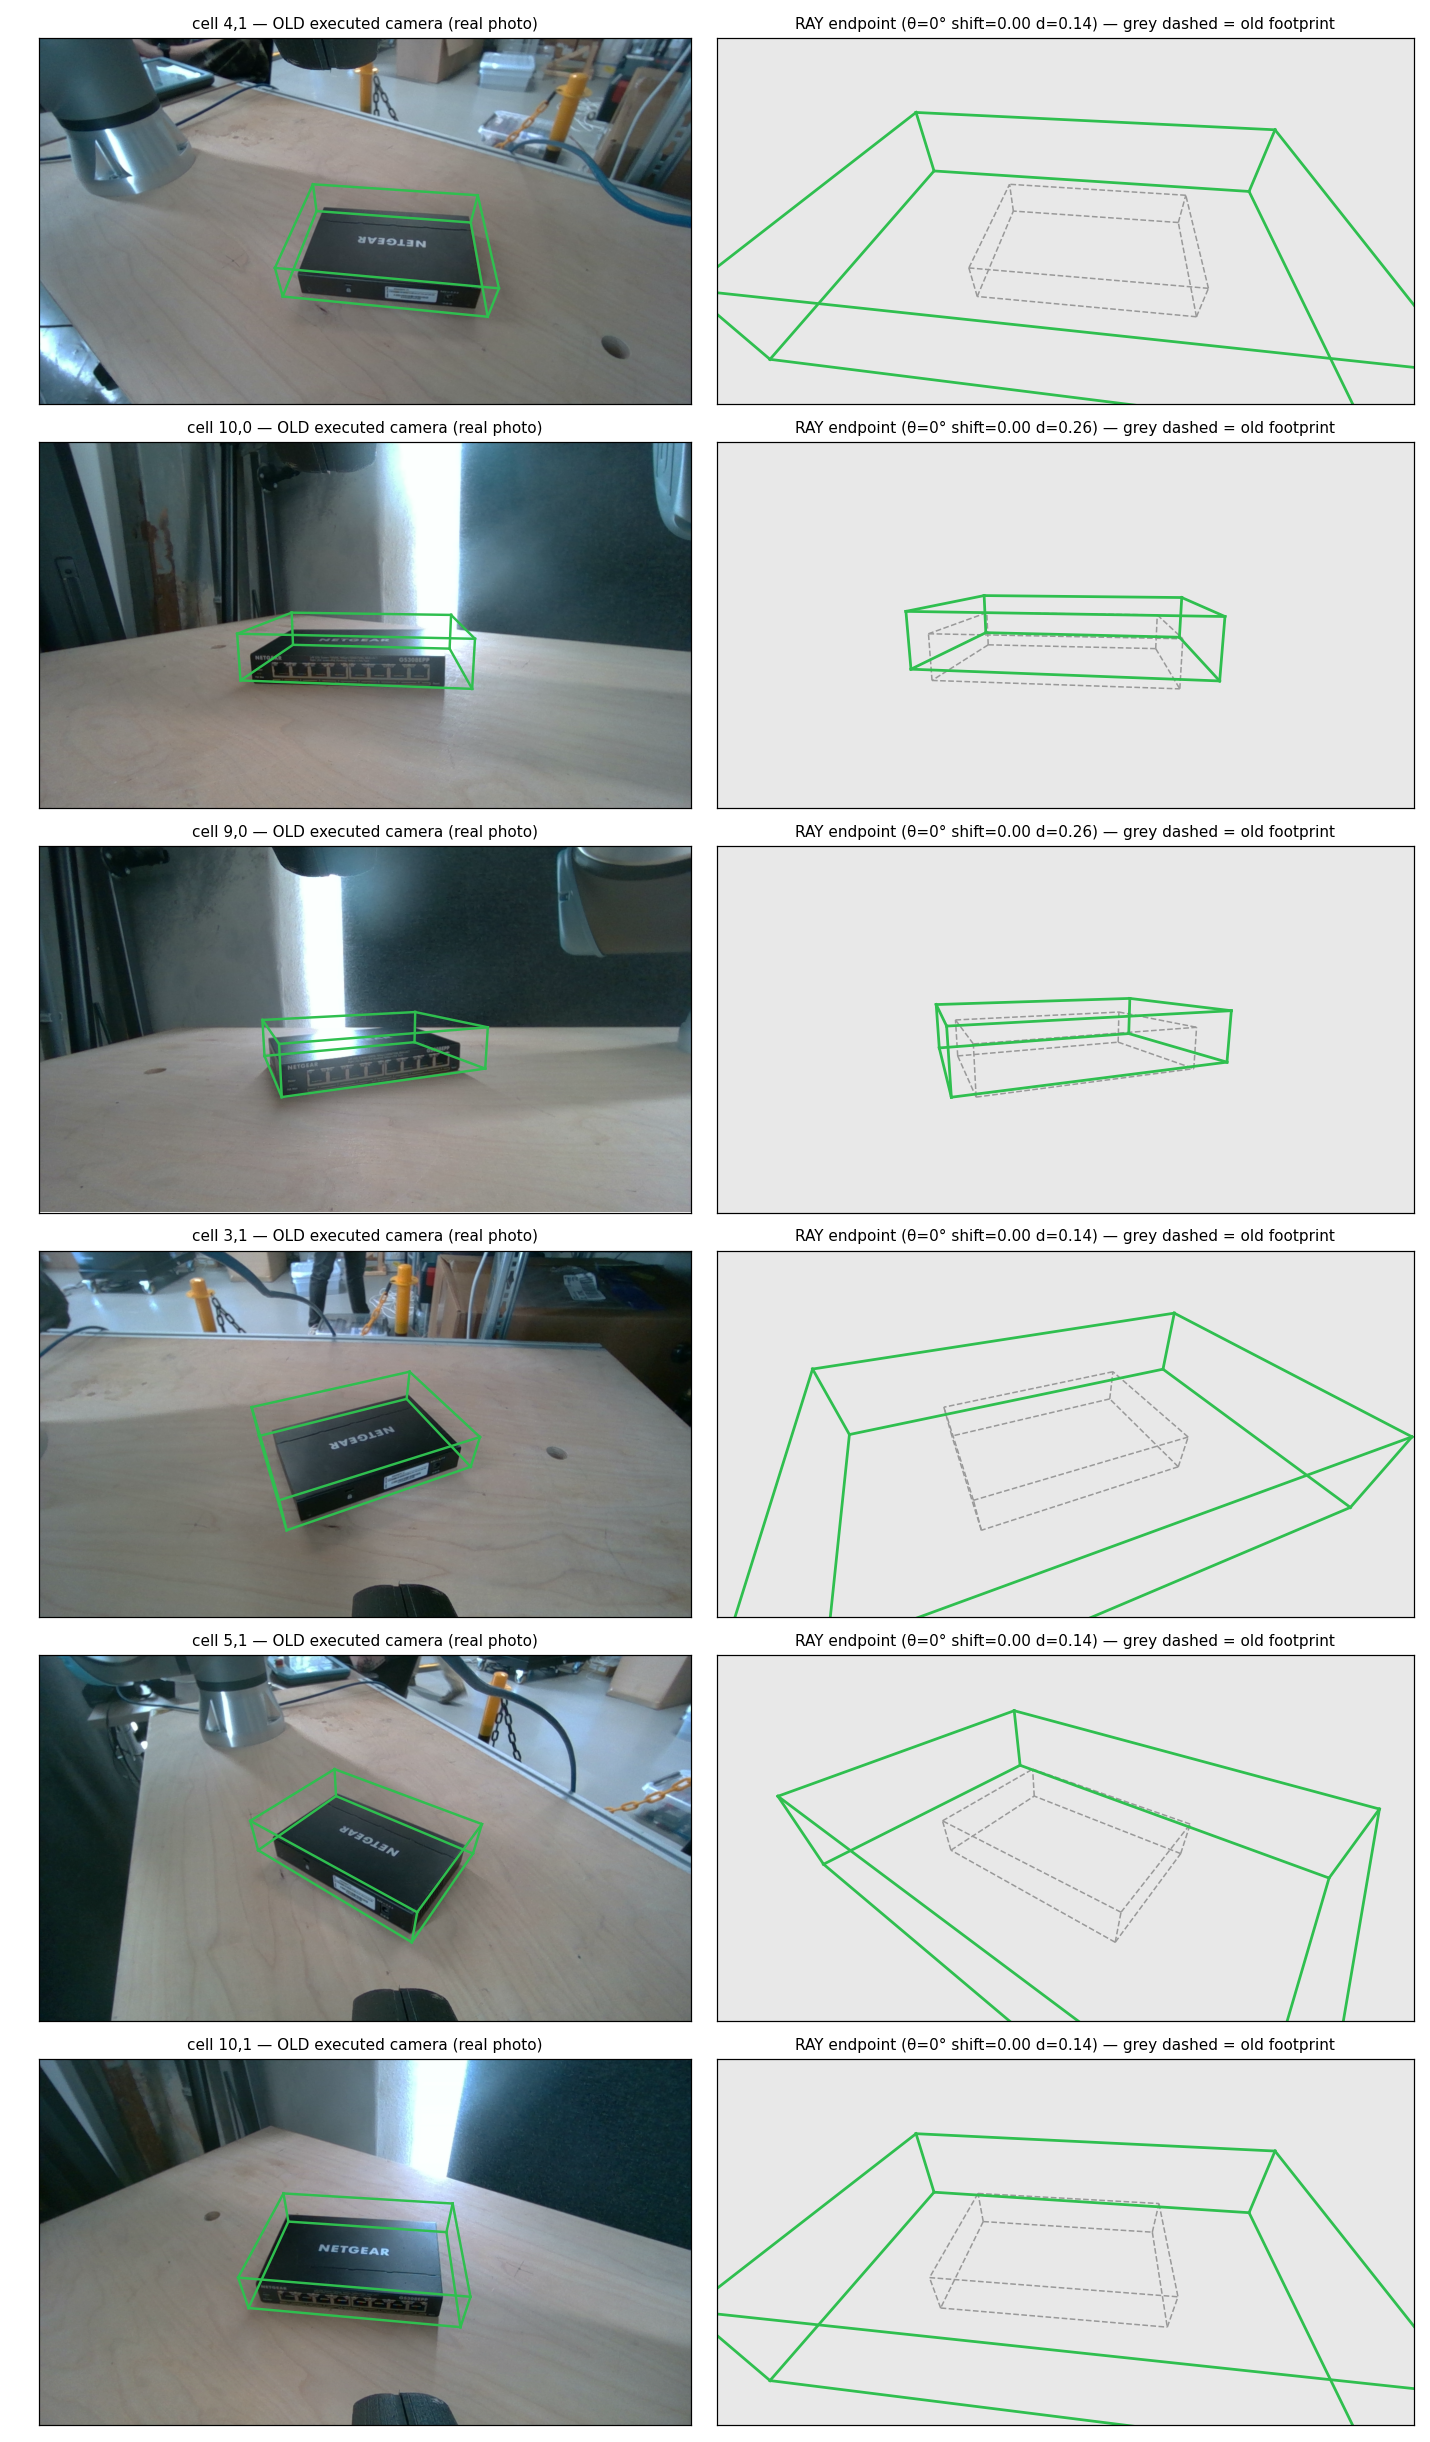
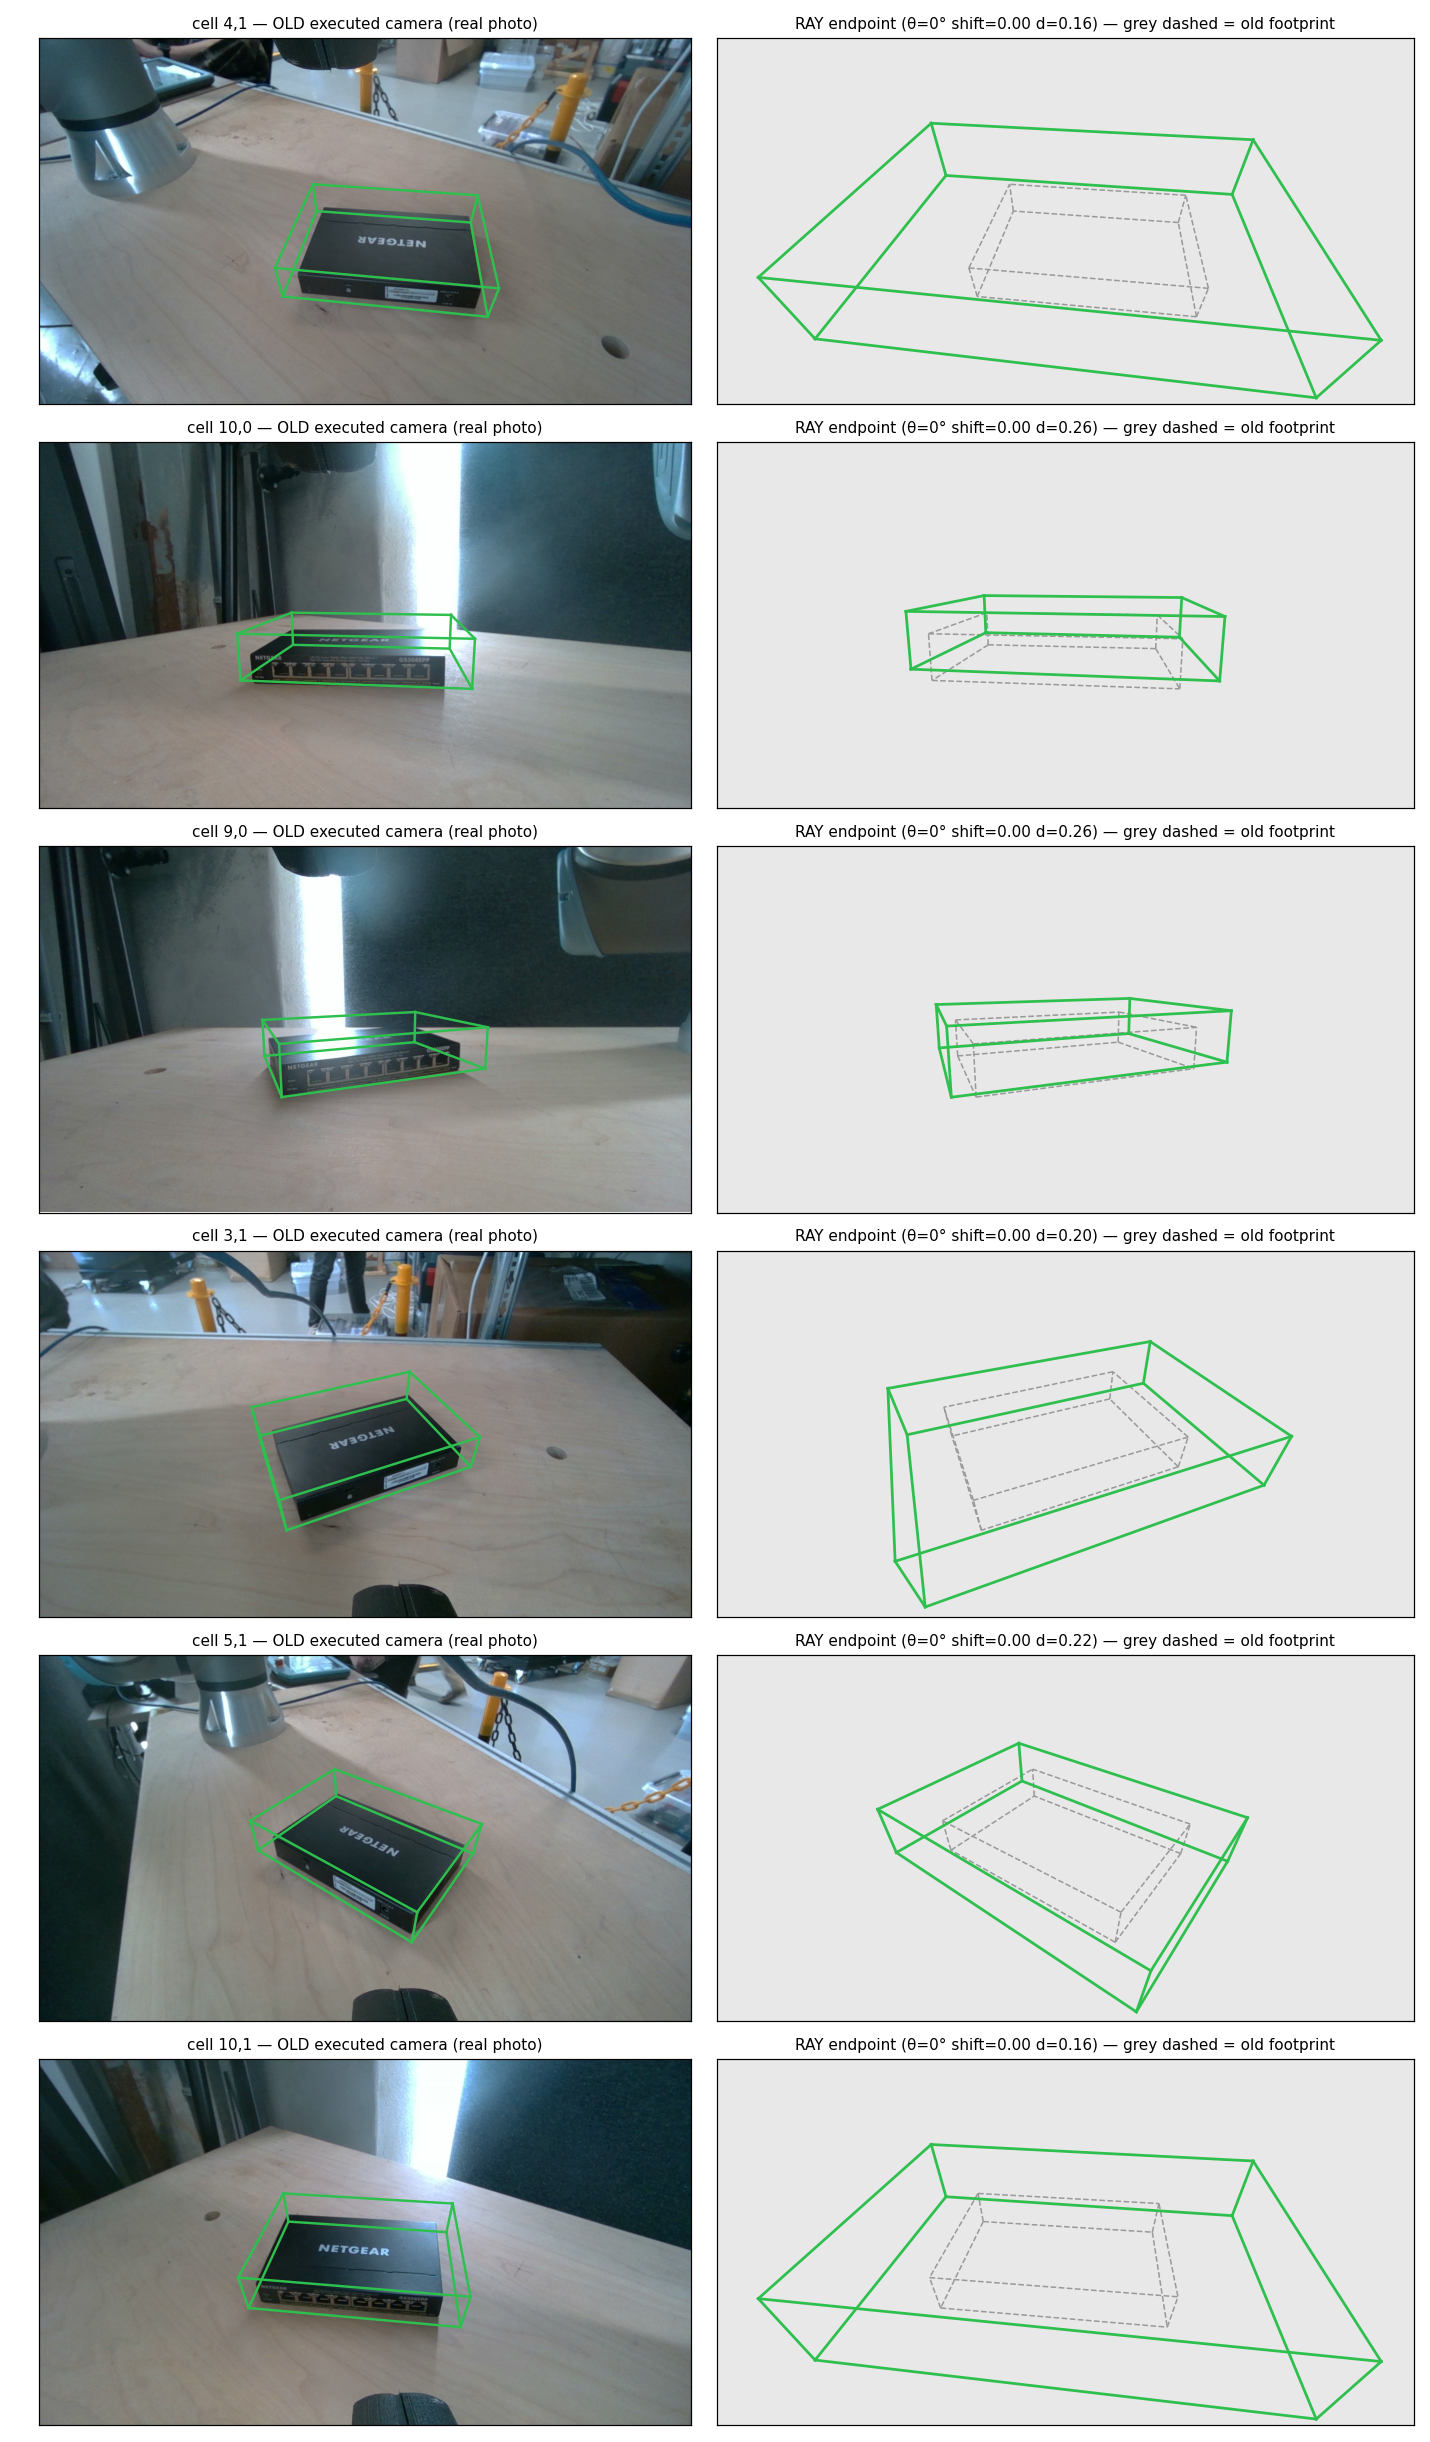
rays: cell views promise the whole object in frame — per-corner containment floor on the belief box
Extends the face containment ruling to cell rays (Anton 2026-09-17). The
floor is the projected-support bound per belief-BOX corner (the AABB bound
taxed yawed boxes ~2-6 cm); reaches sample_ray through clear_m like face
members. Cost on the bench: mean surface distance 0.149/0.154/0.133/0.178
vs 0.139/0.143/0.095/0.158 uncontained — all four runs keep their
closer-than-old verdicts (10/11, 8/9, 1/1, 9/10).

Claude-Session: https://claude.ai/code/session_01UiomUoQczBP9zoNyd7v7Pf

diff --git a/inspection/view/rays.py b/inspection/view/rays.py
@@ -95,6 +95,45 @@ def cell_clear_m(aabb, ray):
     return max(t_exit, 0.0)
 
 
+def cell_d_contain(aabb, ray, fy, height_px, corners=None):
+    """Containment floor for a cell ray: the closest depth from which EVERY
+    belief-AABB corner stays inside the frame (Anton 2026-09-17, extending
+    the face ruling — a cell view's promise is the whole object).
+
+    Exact per corner: a corner offset `o` from the anchor sits at camera
+    depth d - o·dir with lateral spans |o·û|, |o·v̂| (both ⊥ dir, so
+    d-independent); solving f*lat/(d - o·dir) <= half_px - margin per
+    corner and axis gives d >= o·dir + lat*f/(half_px - margin); the floor
+    is the max over corners and both image axes. Width reuses fy (D405 is
+    16:9 with fx≈fy). This is the projected-support bound — it tracks the
+    bearing, so flat objects keep their close cells instead of paying a
+    bounding-sphere tax. `corners` (8x3, the belief BOX corners) tightens
+    the bound over the axis-aligned aabb — a yawed box's AABB inflates up
+    to ~20%/dim and that tax is centimetres of standoff."""
+    mn, mx = (np.asarray(v, dtype=float) for v in aabb)
+    o, d = np.asarray(ray.anchor), np.asarray(ray.direction)
+    x = -d                                        # boresight, cam pose rule
+    ref = np.array([0.0, 0.0, 1.0])
+    if abs(x @ ref) > 0.95:
+        ref = np.array([1.0, 0.0, 0.0])
+    u = np.cross(ref, x); u /= np.linalg.norm(u)  # image left
+    v_img = np.cross(x, u)                        # image up
+    half_v = height_px / 2.0 - FOV_MARGIN_PX
+    half_u = (height_px * 16.0 / 9.0) / 2.0 - FOV_MARGIN_PX
+    if corners is None:
+        corners = np.array([[cx, cy, cz] for cx in (mn[0], mx[0])
+                            for cy in (mn[1], mx[1])
+                            for cz in (mn[2], mx[2])])
+    d_min = 0.0
+    for c in np.asarray(corners, dtype=float):
+        off = c - o
+        fwd = float(off @ d)
+        d_min = max(d_min,
+                    fwd + abs(float(off @ v_img)) * fy / half_v,
+                    fwd + abs(float(off @ u)) * fy / half_u)
+    return d_min
+
+
 def _d_contain(fy, height_px, half_span):
     """Closest depth at which a vertical half-span [m] stays inside the
     frame — the inverse of shift_max(d) = d*(height_px/2-margin)/fy -
@@ -178,11 +217,19 @@ def _resolution(samples, shift, theta):
                          s.roll, samples)
 
 
-def resolve_cell(world, ik, t_flange_cam, center, aabb, h, v, q_near=None):
-    """Closest safe sample on cell {h,v}'s ray, or None (inaccessible)."""
+def resolve_cell(world, ik, t_flange_cam, center, aabb, h, v,
+                 fy, height_px, q_near=None, corners=None):
+    """Closest safe sample on cell {h,v}'s ray that keeps the WHOLE belief
+    AABB in frame, or None (inaccessible). The containment floor reaches
+    sample_ray through clear_m exactly as face members do:
+    floor = clear_m + MIN_RANGE_M, so clear_m carries whichever is larger —
+    the real surface run (sensor floor) or the containment depth."""
     ray = cell_ray(center, h, v)
+    clear = max(cell_clear_m(aabb, ray),
+                cell_d_contain(aabb, ray, fy, height_px, corners)
+                - MIN_RANGE_M)
     samples = sample_ray(world, ik, t_flange_cam, ray,
-                         clear_m=cell_clear_m(aabb, ray), q_near=q_near)
+                         clear_m=clear, q_near=q_near)
     return _resolution(samples, 0.0, 0.0) if samples else None
 
 

diff --git a/inspection/tests/test_rays.py b/inspection/tests/test_rays.py
@@ -137,17 +137,21 @@ def test_face_family_dmin_is_containment():
 
 
 def test_resolve_cell_picks_closest_sample():
-    from inspection.view.rays import (Ray, cell_ray, cell_clear_m,
-                                      resolve_cell, sample_ray)
+    """The resolver returns the closest ADMISSIBLE sample — admissible now
+    includes the whole-object containment floor (2026-09-17), so the raw
+    comparison carries the same effective clearance resolve_cell uses."""
+    from inspection.view.rays import (MIN_RANGE_M, cell_clear_m,
+                                      cell_d_contain, cell_ray, resolve_cell,
+                                      sample_ray)
     w, ik = _box_world()
     aabb = ((-0.025, -0.455, 0.0), (0.125, -0.305, 0.075))
     res = resolve_cell(w, ik, T_FLANGE_CAM, (0.05, -0.38, 0.0375), aabb,
-                       h=3, v=1)
+                       h=3, v=1, fy=647.0, height_px=720)
     assert res is not None
-    raw = sample_ray(w, ik, T_FLANGE_CAM,
-                     cell_ray((0.05, -0.38, 0.0375), 3, 1),
-                     clear_m=cell_clear_m(
-                         aabb, cell_ray((0.05, -0.38, 0.0375), 3, 1)))
+    ray = cell_ray((0.05, -0.38, 0.0375), 3, 1)
+    clear = max(cell_clear_m(aabb, ray),
+                cell_d_contain(aabb, ray, 647.0, 720) - MIN_RANGE_M)
+    raw = sample_ray(w, ik, T_FLANGE_CAM, ray, clear_m=clear)
     assert np.isclose(res.depth, raw[0].depth)
 
 
@@ -211,6 +215,38 @@ def test_face_family_contains_whole_rotated_face():
                 (face, s, d_min, uv[:, 0].min(), uv[:, 0].max())
             assert uv[:, 1].min() >= 0 and uv[:, 1].max() <= H, \
                 (face, s, d_min, uv[:, 1].min(), uv[:, 1].max())
+
+
+def test_resolve_cell_contains_whole_aabb():
+    """Anton 2026-09-17 (extending the face ruling to cells): a cell view's
+    promise is the whole OBJECT in frame — the resolved sample must fit
+    every belief-AABB corner inside the image with the real sensor's
+    asymmetric principal point. Without a containment floor the closest
+    safe sample on a tall object crops it."""
+    from inspection.view.faceview import face_cam_pose
+    from inspection.view.rays import cell_ray, resolve_cell
+    fy, H, W = 647.0, 720, 1280
+    K = np.array([[fy, 0.0, 633.0], [0.0, fy, 356.7], [0.0, 0.0, 1.0]])
+    w, ik = _box_world()
+    center = (0.05, -0.38, 0.1)                  # tall object: AABB to 0.2 m
+    aabb = ((-0.05, -0.48, 0.0), (0.15, -0.28, 0.20))
+    mn, mx = (np.asarray(v) for v in aabb)
+    corners = np.array([[x, y, z] for x in (mn[0], mx[0])
+                        for y in (mn[1], mx[1]) for z in (mn[2], mx[2])])
+    for h, v in ((3, 1), (9, 1), (3, 2)):
+        res = resolve_cell(w, ik, T_FLANGE_CAM, center, aabb, h, v,
+                           fy=fy, height_px=H)
+        if res is None:
+            continue
+        T = np.asarray(res.T_cam)
+        R = np.column_stack([-T[:3, 1], -T[:3, 2], T[:3, 0]])
+        pc = (corners - T[:3, 3]) @ R
+        assert np.all(pc[:, 2] > 0), (h, v)
+        uv = (K @ (pc / pc[:, 2:3]).T).T[:, :2]
+        assert uv[:, 0].min() >= 0 and uv[:, 0].max() <= W, \
+            (h, v, res.depth, uv[:, 0].min(), uv[:, 0].max())
+        assert uv[:, 1].min() >= 0 and uv[:, 1].max() <= H, \
+            (h, v, res.depth, uv[:, 1].min(), uv[:, 1].max())
 
 
 def main():

diff --git a/inspection/investigation/ray_views/ray_replay.py b/inspection/investigation/ray_views/ray_replay.py
@@ -226,6 +226,15 @@ def recorded_theta(step):
 
 
 # ------------------------------------------------------------------ resolution
+
+def box_corners(prim):
+    """8x3 belief-box corners for the cell containment bound."""
+    he = np.asarray(prim.params["extents"], dtype=float) / 2.0
+    sgn = np.array([[a, b, c] for a in (-1, 1) for b in (-1, 1)
+                    for c in (-1, 1)], dtype=float)
+    return prim.center + (sgn * he) @ prim.axes.T
+
+
 def resolve_step(world, ik, prim, aabb, step, fy, height_px):
     """(res, ms) for one executed step's address, or (None, ms) when the ray
     (family) has no provably-safe sample — an honestly inaccessible address."""
@@ -237,7 +246,8 @@ def resolve_step(world, ik, prim, aabb, step, fy, height_px):
                            height_px)
     else:
         h, v = int(addr[0]), int(addr[1])
-        res = resolve_cell(world, ik, T_FLANGE_CAM, prim.center, aabb, h, v)
+        res = resolve_cell(world, ik, T_FLANGE_CAM, prim.center, aabb,
+                           h, v, fy, height_px, corners=box_corners(prim))
     return res, (time.perf_counter() - t0) * 1e3
 
 
@@ -330,14 +340,17 @@ def measure(world, ik, prim, aabb, fy, height_px, repeats=3):
     """The design's feasibility table, measured. Warmed up first: the very
     first IK/coal call carries import-time and data-alloc cost that would
     otherwise be charged to one unlucky ray."""
-    resolve_cell(world, ik, T_FLANGE_CAM, prim.center, aabb, 0, 1)   # warmup
+    resolve_cell(world, ik, T_FLANGE_CAM, prim.center, aabb, 0, 1,
+                 fy, height_px, corners=box_corners(prim))   # warmup
     refreshes, ray_ms, depths = [], [], []
     for rep in range(repeats):
         t0 = time.perf_counter()
         for h in range(H_BINS):
             for v in range(len(V_ELEVATIONS)):
                 t1 = time.perf_counter()
-                resolve_cell(world, ik, T_FLANGE_CAM, prim.center, aabb, h, v)
+                resolve_cell(world, ik, T_FLANGE_CAM, prim.center,
+                             aabb, h, v, fy, height_px,
+                             corners=box_corners(prim))
                 ray_ms.append((time.perf_counter() - t1) * 1e3)
                 if rep == 0:
                     depths.append(n_depths(
@@ -636,7 +649,8 @@ def bench(run: str = PINNED_RUN, out: str = str(OUT), margin: float = 0.0,
     # Warm up before the walk: without this the first address in the table
     # carries the cold-start cost of IK/coal data allocation and its ms
     # column is a lie about that address rather than a measurement.
-    resolve_cell(world, ik, T_FLANGE_CAM, prim.center, aabb, 0, 1)
+    resolve_cell(world, ik, T_FLANGE_CAM, prim.center, aabb, 0, 1,
+                 fy, height_px, corners=box_corners(prim))
     rows = walk(r, world, ik, prim, aabb, fy, height_px)
     if not rows:
         print("   no executed addressed steps — nothing to compare")
